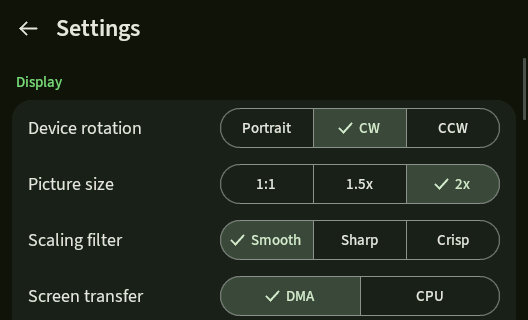
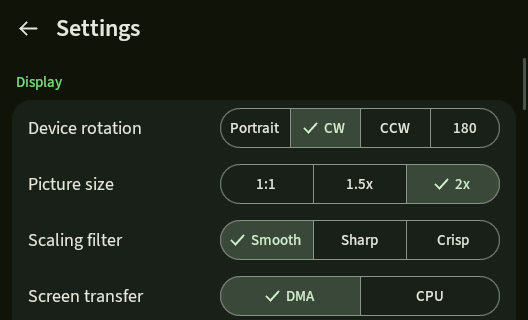
feat(classpad): choose upside-down portrait in Settings
The game picture, the touch keys, the interface and the cursor keys
already turn over in portrait when Swap is pressed, but Settings had no
way to choose it: "Device rotation" offered Portrait, CW and CCW only,
showed Portrait while the screen was upside down, and picking Portrait
put it back upright.

- "Device rotation" gets a fourth choice, 180, for portrait with the
  keypad above the screen. Choosing it from landscape keeps the size
  class, as CW and CCW do. The label is "180" because the interface font
  is ASCII only and "Upside down" does not fit a quarter of the row.
- gpSP starts upright with an upside-down view saved, as it already did
  with a landscape one: the library is drawn upright until the first
  game starts, which gets the saved view back.
- Host tests for both. The test's tap helper now turns points the way the
  interface was last drawn rather than by the saved view, which differ
  while gpSP still starts upright.
- README and docs/classpad-port.md describe 180 and Swap in portrait; the
  icon table now says Rotate, Resize and Swap work in the menu too, as
  the code has them. The two settings screenshots are regenerated.

Not run on hardware.

Changed region(s): [[0.4242, 0.3438, 0.7879, 0.4688], [0.8182, 0.375, 0.9091, 0.4375], [0.9697, 0.3438, 1.0, 0.375]]

diff --git a/tests/classpad_render_test.c b/tests/classpad_render_test.c
@@ -167,10 +167,13 @@ uint32_t fxcg100_rom_source_count(void) { return fake_game_count; }
 const char *fxcg100_rom_source_label(uint32_t i) { return fake_games[i % 12]; }
 /* What a saved configuration would put in the view, if not negative. */
 static int fake_saved_view = -1;
+static uint32_t fake_saved_rotation = CP_ROTATION_KEYS_RIGHT;
 int fxcg100_config_load(fxcg100_menu_state *state)
 {
-	if (fake_saved_view >= 0)
+	if (fake_saved_view >= 0) {
 		state->screen_scale = (uint32_t)fake_saved_view;
+		state->rotation = fake_saved_rotation;
+	}
 	return fake_saved_view >= 0;
 }
 int fxcg100_config_save(const fxcg100_menu_state *state)
@@ -813,12 +816,14 @@ static void ui_open(int in_game, unsigned view)
 		"first draw returned");
 }
 
-/* A tap at a point the player sees: finger down for one step, then up. */
+/* A tap at a point the player sees: finger down for one step, then up. The
+ * point is turned the way the interface was last drawn, which is not the
+ * saved view while gpSP still starts upright. */
 static fxcg100_menu_result ui_tap(int ux, int uy)
 {
 	fxcg100_menu_result r;
 
-	touch_user(ui_state.screen_scale, ui_state.rotation, 1, ux, uy, 0, 0);
+	touch_user(cp_view, cp_rotation, 1, ux, uy, 0, 0);
 	r = ui_frame();
 	if (r != FXCG100_MENU_CONTINUE)
 		return r;
@@ -949,6 +954,29 @@ static void test_ui(const char *dir)
 	memset(&touch_state, 0, sizeof(touch_state));
 	ui_settle(ui_frame());
 	CHECK(ui.w == 528, "a turn in the first library did not show");
+	/* Saved upside down, it starts upright as well, and the game and its
+	 * pause menu get the upside-down view back. */
+	fake_saved_view = CP_VIEW_PORTRAIT_43;
+	fake_saved_rotation = CP_ROTATION_KEYS_LEFT;
+	memset(&touch_state, 0, sizeof(touch_state));
+	fxcg100_menu_init(&ui_state);
+	fake_saved_view = -1;
+	fake_saved_rotation = CP_ROTATION_KEYS_RIGHT;
+	cp_ui_begin(&ui, &ui_state, 0);
+	ui_settle(cp_ui_step(&ui));
+	CHECK(ui.s.mode == CP_SURFACE_UPRIGHT && cp_rotation ==
+		CP_ROTATION_KEYS_RIGHT, "the first screen is upside down");
+	CHECK(ui_state.screen_scale == CP_VIEW_PORTRAIT_43 &&
+		ui_state.rotation == CP_ROTATION_KEYS_LEFT,
+		"the saved upside-down view was lost (%u, %u)",
+		(unsigned)ui_state.screen_scale, (unsigned)ui_state.rotation);
+	CHECK(ui_tap_on("Golden Sun", 0) == FXCG100_MENU_LOAD_GAME &&
+		ui_state.rotation == CP_ROTATION_KEYS_LEFT,
+		"starting a game from the upright library");
+	cp_ui_begin(&ui, &ui_state, 1);
+	ui_settle(cp_ui_step(&ui));
+	CHECK(ui.s.mode == CP_SURFACE_FLIPPED && ui.w == 320,
+		"the pause menu is not upside down like the game");
 
 	/* Sizes and turning: Resize goes round the sizes of an orientation;
 	 * turning keeps 1:1 as 1:1 and takes the larger sizes to the largest. */
@@ -1077,6 +1105,33 @@ static void test_ui(const char *dir)
 	ui_tap_on("2x", 0);
 	CHECK(ui_state.screen_scale == CP_VIEW_LANDSCAPE_2X, "landscape 2x");
 	ui_shot(dir, "ui-settings-landscape");
+	/* 180 is portrait held upside down: the interface turns over, keeps
+	 * taking taps where they are seen, and Portrait turns it back. */
+	ui_tap_on("180", 0);
+	CHECK(ui_state.screen_scale == CP_VIEW_PORTRAIT_43 &&
+		ui_state.rotation == CP_ROTATION_KEYS_LEFT,
+		"180 gives view %u rotation %u",
+		(unsigned)ui_state.screen_scale, (unsigned)ui_state.rotation);
+	CHECK(ui.w == 320 && ui.h == 528 && ui.s.mode == CP_SURFACE_FLIPPED,
+		"interface did not turn over");
+	CHECK(cp_physical_direction(cp_view, cp_rotation, 0) == 2,
+		"upside down, up in the menu is not the DOWN key");
+	ui_tap_on("1:1", 0);
+	CHECK(ui_state.screen_scale == CP_VIEW_PORTRAIT_1X &&
+		ui_state.rotation == CP_ROTATION_KEYS_LEFT,
+		"upside-down 1:1 (%u, %u)", (unsigned)ui_state.screen_scale,
+		(unsigned)ui_state.rotation);
+	ui_tap_on("Portrait", 0);
+	CHECK(ui_state.screen_scale == CP_VIEW_PORTRAIT_1X &&
+		ui_state.rotation == CP_ROTATION_KEYS_RIGHT &&
+		ui.s.mode == CP_SURFACE_UPRIGHT, "Portrait gives view %u rotation %u",
+		(unsigned)ui_state.screen_scale, (unsigned)ui_state.rotation);
+	ui_tap_on("180", 0);
+	ui_tap_on("CW", 0);
+	CHECK(ui_state.screen_scale == CP_VIEW_LANDSCAPE_1X &&
+		ui_state.rotation == CP_ROTATION_KEYS_LEFT && ui.w == 528,
+		"CW from 180 gives view %u rotation %u",
+		(unsigned)ui_state.screen_scale, (unsigned)ui_state.rotation);
 	CHECK(ui_tap_on("Back", 0) == FXCG100_MENU_CONTINUE &&
 		ui.screen == SCREEN_PAUSE, "Back from settings");
 	CHECK(config_saves == 1, "settings saved %d times", config_saves);

diff --git a/ports/fxcg100/classpad_ui.c b/ports/fxcg100/classpad_ui.c
@@ -346,10 +346,10 @@ static int ui_resolve_theme(cp_ui *ui)
 /* ---- input ---------------------------------------------------------------- */
 
 /* gpSP starts upright, the way the calculator is held to start it, even
- * when the saved view is a landscape one: until the first game starts (or
- * the player turns the screen themselves) the interface is drawn in the
- * portrait view of the same size class, and the saved view is left alone
- * for the game to use. */
+ * when the saved view is a landscape or an upside-down one: until the first
+ * game starts (or the player turns the screen themselves) the interface is
+ * drawn in the upright portrait view of the same size class, and the saved
+ * view is left alone for the game to use. */
 static int ui_start_upright;
 
 void cp_ui_game_starting(void)
@@ -361,8 +361,9 @@ static void ui_refresh_orientation(cp_ui *ui)
 {
 	unsigned view = ui->state->screen_scale, rotation = ui->state->rotation;
 
-	if(ui_start_upright && cp_view_is_landscape(view)) {
-		view = cp_view_turned(view);
+	if(ui_start_upright) {
+		if(cp_view_is_landscape(view))
+			view = cp_view_turned(view);
 		rotation = CP_ROTATION_KEYS_RIGHT;     /* upright, not upside down */
 	}
 
@@ -1718,19 +1719,23 @@ static void leave_settings(cp_ui *ui)
 
 static fxcg100_menu_result screen_settings(cp_ui *ui)
 {
-	static const char *const turn[] = { "Portrait", "CW", "CCW" };
+	static const char *const turn[] = { "Portrait", "CW", "CCW", "180" };
 	static const char *const size_portrait[] = { "1:1", "Fit width" };
 	static const char *const size_landscape[] = { "1:1", "1.5x", "2x" };
 	static const char *const filter[] = { "Smooth", "Sharp", "Crisp" };
 	static const char *const transfer[] = { "DMA", "CPU" };
 	static const char *const frameskip[] = { "Auto", "Manual", "Off" };
+	enum { HELD_UPRIGHT, HELD_CW, HELD_CCW, HELD_UPSIDE_DOWN };
 	fxcg100_menu_state *st = ui->state;
 	uint32_t landscape = (uint32_t)cp_view_is_landscape(st->screen_scale);
 	uint32_t size = cp_view_size(st->screen_scale);
-	/* 0 portrait; 1 the calculator turned clockwise, which puts the keypad
-	 * under the left hand; 2 turned counter-clockwise. */
-	uint32_t held = landscape ? 1u + (st->rotation == CP_ROTATION_KEYS_RIGHT)
-		: 0u;
+	/* CW is the calculator turned clockwise, which puts the keypad under
+	 * the left hand; CCW the other way; 180 is portrait with the keypad
+	 * above the screen. */
+	uint32_t held = landscape
+		? (st->rotation == CP_ROTATION_KEYS_RIGHT ? HELD_CCW : HELD_CW)
+		: (cp_view_is_flipped(st->screen_scale, st->rotation)
+			? HELD_UPSIDE_DOWN : HELD_UPRIGHT);
 	int changed = 0, y, top;
 	cp_clock clock;
 	char text[40];
@@ -1746,17 +1751,19 @@ static fxcg100_menu_result screen_settings(cp_ui *ui)
 
 	section_label(ui, &y, "Display");
 	card_begin(ui, y);
-	if(ui_segments(ui, setting_row(ui, &y, "Device rotation"), turn, turn, 3,
+	if(ui_segments(ui, setting_row(ui, &y, "Device rotation"), turn, turn, 4,
 			&held)) {
+		uint32_t turned = held == HELD_CW || held == HELD_CCW;
+
 		ui_start_upright = 0;      /* the player has chosen */
-		if((held != 0) != (landscape != 0)) {
+		if(turned != landscape) {
 			size = cp_view_size(cp_view_turned(st->screen_scale));
-			landscape = held != 0;
+			landscape = turned;
 		}
-		/* Upright here means upright: turning the picture over in portrait
-		 * is what Swap is for. */
-		st->rotation = held == 1 ? CP_ROTATION_KEYS_LEFT
-			: CP_ROTATION_KEYS_RIGHT;
+		/* KEYS_LEFT is turned clockwise in landscape and upside down in
+		 * portrait (cp_view_is_flipped). */
+		st->rotation = held == HELD_CW || held == HELD_UPSIDE_DOWN
+			? CP_ROTATION_KEYS_LEFT : CP_ROTATION_KEYS_RIGHT;
 		changed = 1;
 	}
 	if(ui_segments(ui, setting_row(ui, &y, "Picture size"),

diff --git a/docs/classpad-port.md b/docs/classpad-port.md
@@ -313,10 +313,13 @@ Portrait 1:1 and 4:3 use the same pad in the same place, so changing the
 picture size never moves a key. The 1:1 picture sits against the bottom of
 the space the 4:3 one fills, next to the keys.
 
-Which way round landscape is, is chosen in Settings ("Device rotation":
-Portrait, CW, CCW) or by stepping through the three with the Rotate icon.
-CW means the calculator is turned clockwise, which puts the keypad under the
-left hand; CCW is the other way round. In landscape 1.5× the D-pad sits high in the left
+Which way the calculator is held is chosen in Settings ("Device rotation":
+Portrait, CW, CCW, 180). The Rotate icon steps through the first three, and
+Swap turns portrait upside down and back. CW means the calculator is turned
+clockwise, which puts the keypad under the left hand; CCW is the other way
+round; 180 is portrait with the keypad above the screen, where the picture,
+the touch keys, the interface and the cursor keys are all turned half a
+turn. In landscape 1.5× the D-pad sits high in the left
 column, where the thumb rests when the calculator is held by its ends. 
 
 Landscape has three picture sizes. 1:1 is the 1.5× layout with the picture
@@ -325,8 +328,9 @@ carries A, B, Select and Start; the D-pad and the shoulder keys are on the
 keypad. The strip is on the side away from the keypad, under the free
 thumb: on the right when the calculator is turned clockwise, on the left
 when counter-clockwise. gpSP always starts in portrait, the way the calculator is held to start it:
-with a landscape view saved from last time, the interface is drawn upright
-until the first game starts, which then gets the landscape view back.
+with a landscape or upside-down view saved from last time, the interface is
+drawn upright until the first game starts, which then gets the saved view
+back.
 Turning the screen by hand before that takes effect at once. The Resize icon steps through the sizes of the
 current orientation; turning keeps 1:1 as 1:1 and takes the larger sizes to
 the largest of the other orientation.
@@ -353,9 +357,9 @@ sit just above it in portrait:
 |---|---|---|
 | Menu, Settings | open the gpSP menu | — |
 | Esc | — | back |
-| Rotate | portrait → CW → CCW → portrait | — |
-| Resize | the other scale of this orientation | — |
-| Swap | keypad side in landscape; in portrait, turns the picture, the touch keys and the keypad directions upside down | — |
+| Rotate | portrait → CW → CCW → portrait | same |
+| Resize | the other scale of this orientation | same |
+| Swap | keypad side in landscape; in portrait, turns the picture, the touch keys and the keypad directions upside down | same |
 | Main | fast forward while held | — |
 
 There is no on-screen menu key any more. Clear also opens the menu, until

diff --git a/README.md b/README.md
@@ -106,14 +106,15 @@ The printed icons under the screen are shortcuts:
 | Esc | | Back |
 | Rotate | Portrait ↔ landscape | same |
 | Resize | The other picture size | same |
-| Swap | Keypad side in landscape | same |
+| Swap | Keypad side in landscape; upside down in portrait | same |
 | Main | Fast forward while held | |
 
 The Clear key also opens the pause menu, where you can save or load a state,
 restart, pick another game or exit.
 
-- **Keypad side** chooses which way you turn the calculator in landscape. The
-  interface and the cursor keys turn with the picture.
+- **Device rotation** chooses how you hold the calculator: Portrait, turned
+  CW or CCW (landscape), or 180 (portrait with the keypad above the screen).
+  The interface and the cursor keys turn with the picture.
 - **Touch keys** shows or hides the on-screen keys. A key lights up while it
   is held.
 - **Screen transfer** chooses how the picture is sent to the panel: DMA runs
